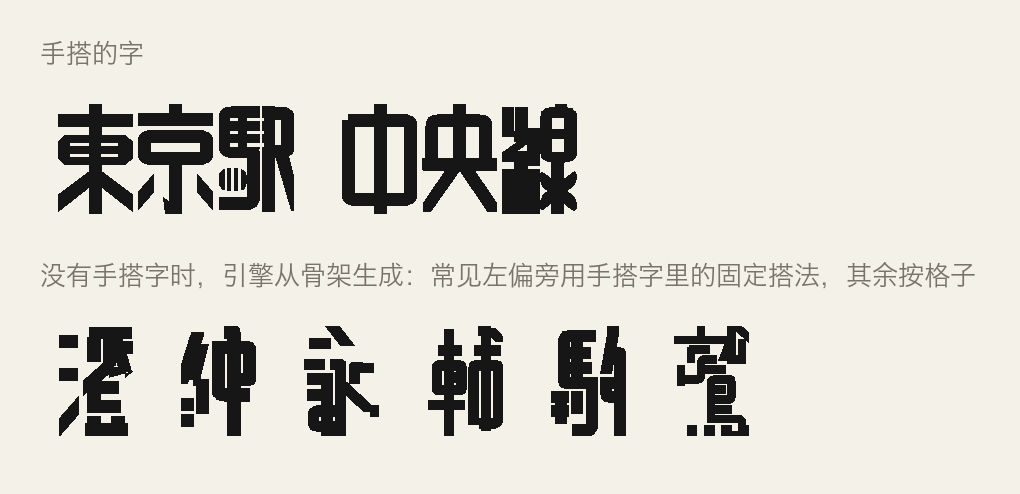
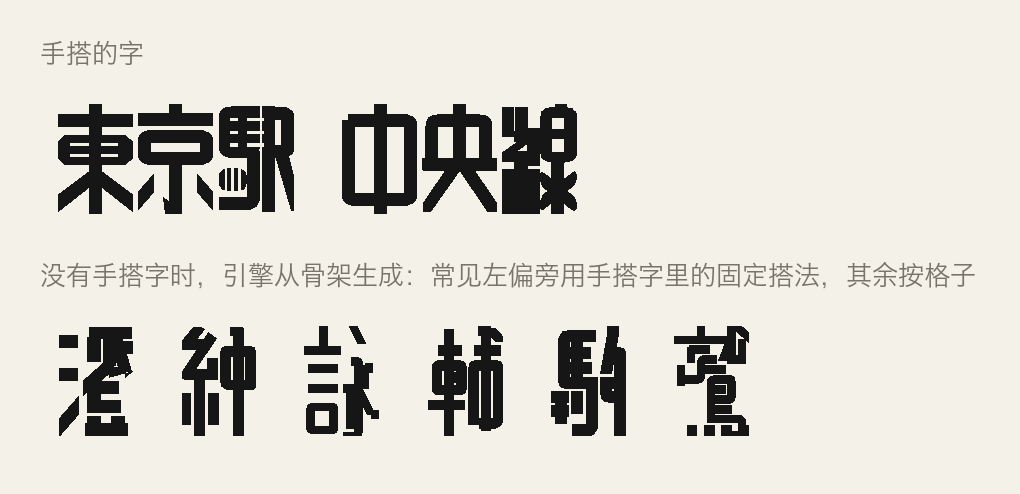
Grid: radicals match the donor in either skeleton set
Lines without kana use the Chinese (Make Me a Hanzi) skeletons, whose strokes
differ in shape from KanjiVG's, so 糸 言 and others never matched there. radMatch
0.07 -> 0.062 keeps 巾 from passing as 忄 on those skeletons.

Changed region(s): [[0.2735, 0.6377, 0.3951, 0.8806], [0.1824, 0.668, 0.2431, 0.8806]]

diff --git a/web/grid.js b/web/grid.js
@@ -87,7 +87,7 @@
     ringHole: 0.035,
     markSqueeze: 0.8, // least sideways squeeze of the base to fit the marks right of its posts
     radicals: 1,    // a known left radical is taken from a hand glyph (RAD), the rest is built in the cell right of it
-    radMatch: 0.07, // ... its strokes match the donor's first strokes this close (mean point distance, radical box = 1)
+    radMatch: 0.062, // ... its strokes match the donor's first strokes this close (mean point distance, radical box = 1)
     radSize: 0.3,   // ... and its box is within this share of the donor's in width and height
   };
 
@@ -953,13 +953,14 @@
   function radicalsFor(data) {
     if (radCache.has(data)) return radCache.get(data);
     const list = RAD.flatMap((R) => {
-      const e = data.hand[R.donor], sk = data.ja[R.donor] || data.zh[R.donor];
-      if (!e || !sk || sk.length <= R.k) return [];
+      // both skeleton sets: their strokes differ in shape, a char is matched against the donor in either
+      const e = data.hand[R.donor], sks = [data.ja[R.donor], data.zh[R.donor]].filter((sk) => sk && sk.length > R.k);
+      if (!e || !sks.length) return [];
       const w = e.w || 0.11, left = (P) => Math.max(...P.map((p) => p[0])) <= R.x + 1e-6;
       const pick = (k) => (e[k] || []).filter(left);
       const rest = [...(e.strips || []).filter((s) => !left(s)).flatMap((s) => s.map((p) => p[0] - w / 2)),
         ...(e.polys || []).filter((s) => !left(s)).flatMap((s) => s.map((p) => p[0]))];
-      return [{ ...R, ref: shape(sk.slice(0, R.k)), xs: Math.max(R.x, Math.min(...rest)), w,
+      return [{ ...R, refs: sks.map((sk) => shape(sk.slice(0, R.k))), xs: Math.max(R.x, Math.min(...rest)), w,
         t: { strips: pick("strips"), polys: pick("polys"), cuts: (e.cuts || []).filter((c) => left(c) || Math.min(...c.map((p) => p[0])) < 0),
           sharp: (e.sharp || []).filter((p) => p[0] <= R.x) } }];
     });
@@ -971,11 +972,13 @@
     let best = null;
     for (const R of radicalsFor(data)) {
       if (strokes.length <= R.k) continue;
-      const a = shape(strokes.slice(0, R.k)), b = shape(strokes.slice(R.k)), ref = R.ref;
+      const a = shape(strokes.slice(0, R.k)), b = shape(strokes.slice(R.k));
       if (a.x1 > 0.55 || b.cx < a.cx + 0.1) continue;  // on the left, the rest to its right
-      if (Math.abs(a.W / ref.W - 1) > G.radSize || Math.abs(a.H / ref.H - 1) > G.radSize) continue;
-      const d = a.pts.reduce((s, p, i) => s + dist(p, ref.pts[i]), 0) / a.pts.length;
-      if (d < G.radMatch && (!best || R.k > best.k || (R.k === best.k && d < best.d))) best = { ...R, d };
+      for (const ref of R.refs) {
+        if (Math.abs(a.W / ref.W - 1) > G.radSize || Math.abs(a.H / ref.H - 1) > G.radSize) continue;
+        const d = a.pts.reduce((s, p, i) => s + dist(p, ref.pts[i]), 0) / a.pts.length;
+        if (d < G.radMatch && (!best || R.k > best.k || (R.k === best.k && d < best.d))) best = { ...R, d };
+      }
     }
     return best;
   }
